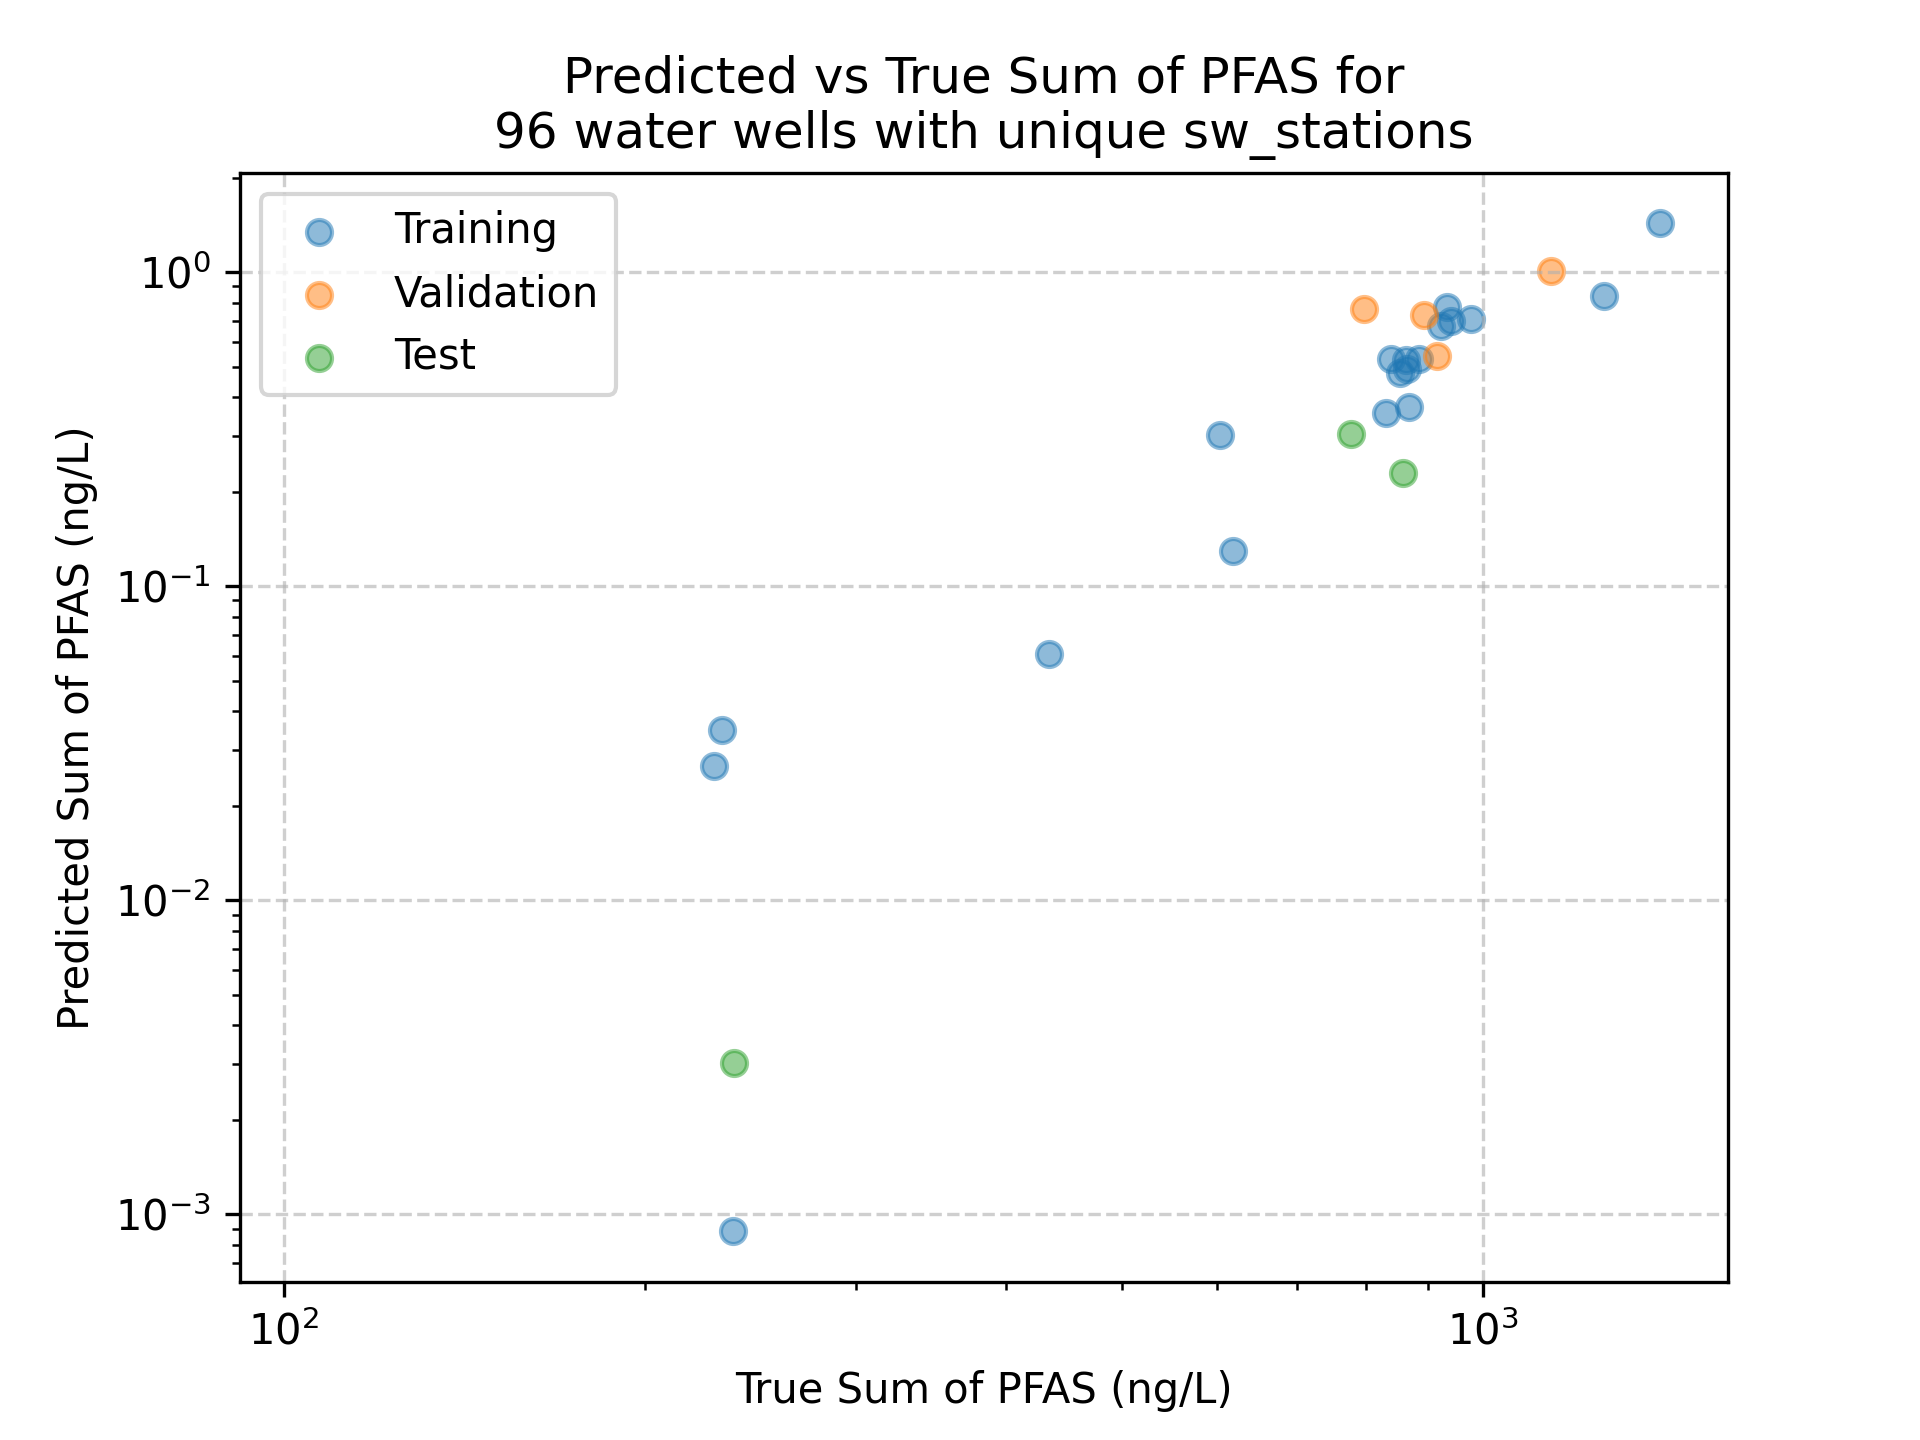
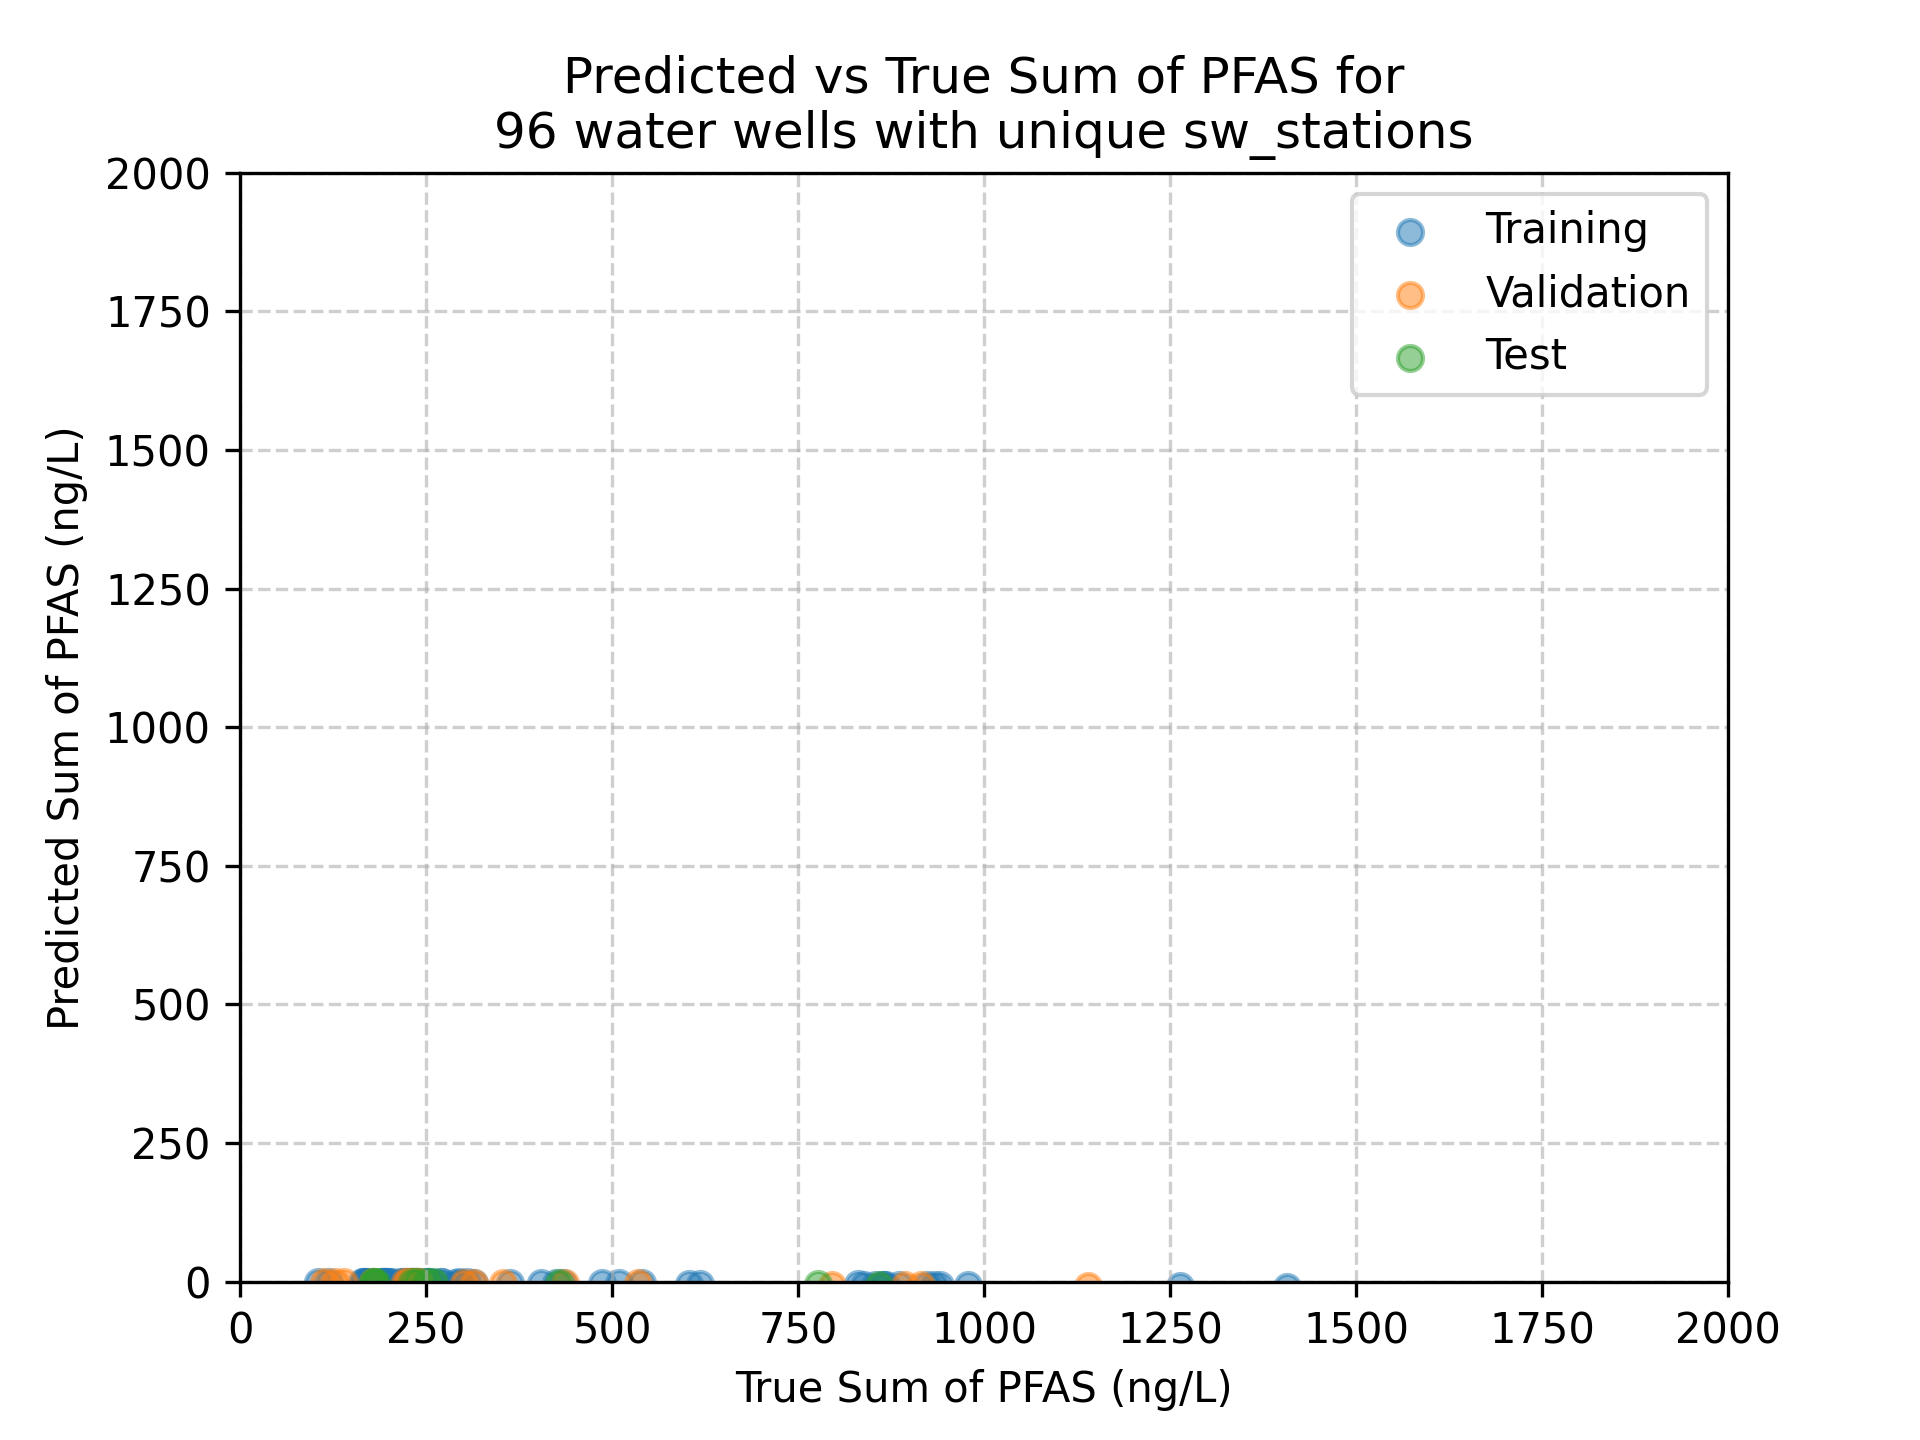
Finilization

diff --git a/GNN_gw_pfas.py b/GNN_gw_pfas.py
@@ -10,7 +10,6 @@ import uuid
 from libs.plot_funs import plot_loss_curve, plot_predictions
 from libs.GNN_models import get_model_by_name
 from torch.optim.lr_scheduler import ReduceLROnPlateau
-#from libs.hetero_data_creation import MainGNNModel
 from libs.utils import cleanup_models, remove_torch_geometry_garbage, remove_predictions, logging_fitting_results, get_features_string, setup_logging, save_predictions
 from libs.load_data import load_dataset
 import torch
@@ -63,7 +62,7 @@ def single_experiment_execution():
         'SeparateLinearModel',
         'GatedEdgePReLUGNN',
         'GatedEdgeEmbeddingPReLUGNN',
-    ][2]
+    ][4]
 
     aggregation = 'mean'
     all_combinations = [(out_channels_options, epochs_options, lr_options, weight_decay_options, distance_options, gw_gw_distance_threshold, gw_features_options, gnn_model, aggregation)]
@@ -174,7 +173,7 @@ def train(model, data, optimizer, criterion, scheduler, device, logger, epochs=1
         sw_loss = criterion(out['sw_stations'][data['sw_stations'].train_mask], sw_train_target)
         
         
-        loss = gw_loss  # + 0.0001 * sw_loss 
+        loss = gw_loss   #+ 1 * sw_loss 
 
         loss.backward()
 
@@ -190,7 +189,7 @@ def train(model, data, optimizer, criterion, scheduler, device, logger, epochs=1
             gw_val_loss = criterion(out['gw_wells'][data['gw_wells'].val_mask], gw_val_target)
             sw_val_loss = criterion(out['sw_stations'][data['sw_stations'].val_mask], sw_val_target)
 
-            val_loss = gw_val_loss  # + 0.0001 * sw_val_loss
+            val_loss = gw_val_loss  # + 1 * sw_val_loss
             val_losses.append(val_loss.item())
 
         model.train()
@@ -258,9 +257,6 @@ def evaluate(pfas_gw, model, data, criterion, device, serial_number, train_targe
     return train_loss, val_loss, test_loss
 
 
-
-
-
 def train_and_evaluate(device, data, pfas_gw,pfas_sw, in_channels_dict, edge_attr_dict, logger, out_channels, epochs, lr, weight_decay, args):
     ### assert both gw_wells and pfas_sites are in the in_channels_dict
     assert 'gw_wells' in in_channels_dict.keys(), "gw_wells is missing in in_channels_dict"
@@ -314,6 +310,12 @@ def generate_data_train_and_evaluate(out_channels, epochs, lr, weight_decay, dis
         print(f"#################### {data} ####################")
         print("=========================================")
     time.sleep(1)
+
+    ### print first column of pfas_sites node features
+    print(f"First column of pfas_sites node features: {data['pfas_sites'].x[:, 0]}")
+    ## now print unique values of pfas_sites node features
+    print(f"Unique values of pfas_sites node features: {torch.unique(data['pfas_sites'].x[:, 0])}")
+    #time.sleep(100)
     
     def single_iteration(device, data, pfas_gw, pfas_sw, in_channels_dict, edge_attr_dict, logger, out_channels, epochs, lr, weight_decay, args):
         return train_and_evaluate(device, data, pfas_gw, pfas_sw, in_channels_dict, edge_attr_dict, logger, out_channels=out_channels, epochs=epochs, lr=lr, weight_decay=weight_decay, args=args)
@@ -395,14 +397,17 @@ def experiment(out_channels, epochs, lr, weight_decay, distance_options,gw_gw_di
         "plot": single_none_parallel_run,
         "data_dir": "/data/MyDataBase/HuronRiverPFAS/",
         "pfas_gw_columns": ['sum_PFAS'],
-        "pfas_sites_columns": ['Industry'],
+        "pfas_sites_columns": ['inv_status'],
         "pfas_sw_station_columns": ['sum_PFAS'],
         "gw_features": gw_features,
         "distance_threshold": distance_options,
         'gnn_model': gnn_model,
         'aggregation': aggregation, 
         "gw_gw_distance_threshold": gw_gw_distance_threshold,
+
     }
+
+
 
     best_losse = generate_data_train_and_evaluate(out_channels, epochs, lr, weight_decay, distance_options, args, logger, single_none_parallel_run, process_index, device)
     #print(f"Best losses: {best_losse}")

diff --git a/utils/uncertainty_analysis.py b/utils/uncertainty_analysis.py
@@ -1,17 +1,12 @@
-from libs.load_data import load_pfas_gw, load_pfas_sites, load_dataset
+from libs.load_data import load_pfas_gw, load_dataset
 from libs.utils import setup_logging
 import os 
-import pandas as pd
-import geopandas as gpd
 import matplotlib.pyplot as plt
 from sklearn.cluster import KMeans
 from matplotlib.patches import Patch
 import pandas as pd
-import numpy as np
-import matplotlib.pyplot as plt
-from sklearn.cluster import KMeans
 from sklearn.mixture import GaussianMixture
-from matplotlib.patches import Patch
+
 
 
 
@@ -85,7 +80,6 @@ def plot_uncertainty_mean_vs_observed_PFAS(path, logger):
 
 
 
-
 def classify_uncertainty(pfas_uncertainty, logger):
     """
     Using k-means to classify the uncertainty into classes based on the elbow method, using the following features:
@@ -96,7 +90,7 @@ def classify_uncertainty(pfas_uncertainty, logger):
     """
 
     # Extract features for clustering
-    X = pfas_uncertainty[['pred_sum_PFAS_mean', 'pred_sum_PFAS_std', 'pred_sum_PFAS_5th', 'pred_sum_PFAS_95th']].values
+    X = pfas_uncertainty[['pred_sum_PFAS_mean', 'pred_sum_PFAS_std']].values
 
     # Determine the optimal number of clusters using the elbow method
     wcss = []
@@ -115,7 +109,7 @@ def classify_uncertainty(pfas_uncertainty, logger):
     plt.show()
 
     # Choose the optimal number of clusters (based on visual inspection of the elbow plot)
-    optimal_clusters = 3  # Set this based on where the "elbow" occurs
+    optimal_clusters = 5  # Set this based on where the "elbow" occurs
 
     # Perform K-Means clustering with the optimal number of clusters
     kmeans = KMeans(n_clusters=optimal_clusters, random_state=0).fit(X)
@@ -129,16 +123,20 @@ def classify_uncertainty(pfas_uncertainty, logger):
     # Log the unique probabilities
     logger.info(f"Unique probabilities for each class: {unique_probabilities}")
 
-    # Assign colors to clusters
-    cluster_colors = {i: plt.cm.tab10(i) for i in range(optimal_clusters)}
+    # Assign colors to clusters using the spectral colormap
+    cmap = plt.cm.get_cmap('viridis', optimal_clusters)
+    cluster_colors = {i: cmap(i) for i in range(optimal_clusters)}
 
-    # Calculate the range of sum_PFAS for each cluster
+    # Calculate the range of sum_PFAS for each cluster and sort by range
     cluster_ranges = {}
     for i in range(optimal_clusters):
         cluster_data = pfas_uncertainty[pfas_uncertainty['uncertainty_class'] == i]
         min_val = int(cluster_data['pred_sum_PFAS_mean'].min())
         max_val = int(cluster_data['pred_sum_PFAS_mean'].max())
-        cluster_ranges[i] = f"{min_val}-{max_val}"
+        cluster_ranges[i] = (min_val, max_val)
+
+    # Sort clusters by the range
+    sorted_clusters = sorted(cluster_ranges.items(), key=lambda x: x[1])
 
     # Update color labels with sum_PFAS range
     pfas_uncertainty['color'] = pfas_uncertainty['uncertainty_class'].map(cluster_colors)
@@ -147,10 +145,12 @@ def classify_uncertainty(pfas_uncertainty, logger):
     fig, ax = plt.subplots(figsize=(8, 8))
     bounds = pd.read_pickle("/data/MyDataBase/HuronRiverPFAS/Huron_River_basin_bound.pkl").to_crs("EPSG:4326")
     bounds.plot(facecolor='none', edgecolor='black', linewidth=1, alpha=0.5, ax=ax)
+    ## sort by color
+    pfas_uncertainty = pfas_uncertainty.sort_values(by='color')
     pfas_uncertainty.to_crs("EPSG:4326").plot(ax=ax, color=pfas_uncertainty['color'], alpha=0.5)
 
     # Create a legend with custom patches
-    legend_patches = [Patch(color=color, label=f'Range: {cluster_ranges[i]}') for i, color in cluster_colors.items()]
+    legend_patches = [Patch(color=cluster_colors[i], label=f'Σ(PFAS) [{r[0]}-{r[1]}]') for i, r in sorted_clusters]
     ax.legend(handles=legend_patches, title="Uncertainty Clusters")
     plt.grid(axis='both', linestyle='--', alpha=0.5)
     plt.xlabel('Longitude')

diff --git a/libs/load_data.py b/libs/load_data.py
@@ -163,6 +163,8 @@ def add_unconfirmed_sites(data_dir, logger):
         crs='EPSG:4326'
     ).to_crs("EPSG:26990").reset_index(drop=True)
 
+
+
     unconfirmed_pfas_sites['inv_status'] = 0
 
     logger.info(f"stage:add_unconfirmed_sites ==##== Number of unconfirmed sites: {len(unconfirmed_pfas_sites)}")
@@ -204,10 +206,6 @@ def load_pfas_sites(data_dir, logger, load_biosolid=False):
     logger.info("stage:load_pfas_sites ==##== PFAS sites are all loaded")
 
     return combined_pfas_sites
-
-
-
-
 
 def classify_pfas_gw(pfas_gw, logger):
     ### assert no negative in pfas_gw sum_PFAS
@@ -312,12 +310,10 @@ def load_pfas_sw(data_dir,gw_features, logger):
 
 
 
-    try:
-        pfas_sw = pfas_sw.drop_duplicates(subset=['SiteCode'])[['SiteCode','geometry']+gw_features].merge(
-            pfas_sw_no_geometry, on='SiteCode', how='inner'
-        )
-    except Exception as e:
-        logger.error(e)
+    pfas_sw = pfas_sw.drop_duplicates(subset=['SiteCode'])[['SiteCode','geometry']+gw_features].merge(
+        pfas_sw_no_geometry, on='SiteCode', how='inner'
+    )
+
 
     assert all(
         col in pfas_sw.columns for col in gw_features
@@ -365,17 +361,20 @@ def load_dataset(args, device, logger):
         plot_site_samples(train_sw, val_sw, test_sw, pfas_sites, logger, name="sw")
 
     var_names = get_features_string(gw_features)
-    if not os.path.exists(f"Hetero_data/{var_names}_{distance_threshold}_{gw_gw_distance_threshold}.pth"):
+    REWRITE = True
+    if REWRITE:
+        data = create_hetdata(pfas_gw, pfas_sw, unsampled_gw, pfas_sites, device, pfas_gw_columns, pfas_sites_columns, pfas_sw_station_columns, gw_features, distance_threshold, logger, gw_gw_distance_threshold)
+        torch.save(data, f"Hetero_data/{var_names}_{distance_threshold}_{gw_gw_distance_threshold}.pth")
+    elif not os.path.exists(f"Hetero_data/{var_names}_{distance_threshold}_{gw_gw_distance_threshold}.pth"):
         data = create_hetdata(pfas_gw, pfas_sw, unsampled_gw, pfas_sites, device, pfas_gw_columns, pfas_sites_columns, pfas_sw_station_columns, gw_features, distance_threshold, logger, gw_gw_distance_threshold)
         torch.save(data, f"Hetero_data/{var_names}_{distance_threshold}_{gw_gw_distance_threshold}.pth")
     else:
         data = torch.load(f"Hetero_data/{var_names}_{distance_threshold}_{gw_gw_distance_threshold}.pth")
-
     data = data.to(device)  
-    
+
     data = split_data(data, unsampled_gw, train_gw, val_gw, test_gw, "gw_wells", logger).to(device)
     data = split_data(data, None, train_sw, val_sw, test_sw, "sw_stations", logger).to(device)
-    
+
     ## assert geometry is in pfas_gw
     assert 'geometry' in pfas_gw.columns, "geometry column is missing in pfas_gw"
 
@@ -409,8 +408,6 @@ def split_data(data,unsampled_gw,  train, val, test, node_name, logger):
     data[node_name].train_mask = train_mask
     data[node_name].val_mask = val_mask
     data[node_name].test_mask = test_mask
-
-
 
     logger.info(f"stage:split_data ==##== Number of training samples: {train_mask.sum()} (NONE ZERO: {train['sum_PFAS'].gt(0).sum()})")
     logger.info(f"stage:split_data ==##== Number of validation samples: {val_mask.sum()} (NONE ZERO: {val['sum_PFAS'].gt(0).sum()})")

diff --git a/libs/hetero_data_creation.py b/libs/hetero_data_creation.py
@@ -92,6 +92,8 @@ def create_hetdata(pfas_gw, pfas_sw, unsampled_gw, pfas_sites, device, pfas_gw_c
     data['gw_wells'].x = torch.tensor(pfas_gw[pfas_gw_columns + gw_features].values, dtype=torch.float)
     data['pfas_sites'].x = torch.tensor(pfas_sites[pfas_sites_columns + gw_features].values, dtype=torch.float)
 
+    
+
     pfas_gw = pfas_gw.drop_duplicates(subset='WSSN')  ### NOTE: need to be verified later
     #pfas_sw = pfas_sw.drop_duplicates(subset='SiteCode')  ### NOTE: need to be verified later
 
@@ -109,6 +111,7 @@ def create_hetdata(pfas_gw, pfas_sw, unsampled_gw, pfas_sites, device, pfas_gw_c
 
 
     return data
+
 
 
 def create_node_edge_main(data, pfas_gw, pfas_sw, pfas_sites, device, distance_threshold, logger, gw_gw_distance_threshold):
@@ -220,3 +223,27 @@ def add_self_loops(data, device):
     data['sw_stations', 'self_loop', 'sw_stations'].edge_index = sw_stations_self_loops
 
     return data
+
+
+def create_rivers_nodes_edges():
+    import geopandas as gpd 
+    import pandas as pd
+    path = "/data/MyDataBase/CIWRE-BAE/SWAT_input/huc8/4100013/SWAT_MODEL/Watershed/Shapes/rivs1.shp"
+    sw = gpd.read_file(path)    ##LINKNO, DSLINKNO
+    sw['riv_node_index'] = pd.factorize(sw['LINKNO'])[0]
+    ### define edges by LINKNO and DSLINKNO relationship 
+    
+
+    sw_edges = sw[['LINKNO', 'DSLINKNO']].values
+    sw_edges = np.unique(sw_edges, axis=0)
+    sw_edge_index = torch.tensor(sw_edges.T, dtype=torch.long)
+    ### define edge_attr using relevant columns
+    sw_edge_attr = torch.tensor(sw[['LENGTHKM', 'SLOPE', 'MANNING']].values, dtype=torch.float)
+    
+    
+    print(sw.columns)  
+
+if __name__ == "__main__":
+    create_rivers_nodes_edges()
+    
+    print("End of the script")

diff --git a/libs/plot_confirmed_suspected_pfas.py b/libs/plot_confirmed_suspected_pfas.py
@@ -1,0 +1,27 @@
+import geopandas as gpd
+from libs.load_data import load_pfas_sites
+from libs.utils import setup_logging
+import matplotlib.pyplot as plt
+import os
+import pandas as pd
+data_dir =[ '/data/MyDataBase/HuronRiverPFAS/']
+logger = setup_logging()
+pfas_sites = load_pfas_sites(data_dir = "/data/MyDataBase/HuronRiverPFAS/", logger = logger)
+pfas_sites =pfas_sites.to_crs("EPSG:4326")
+bounds = gpd.read_file("/data/MyDataBase/HuronRiverPFAS/Huron_River_basin_bound.geojson")
+bounds = bounds.to_crs("EPSG:4326")
+## red for inv_status = 1, green for inv_status = 0
+pfas_sites_inv_status_1 = pfas_sites[pfas_sites['inv_status'] == 1]
+pfas_sites_inv_status_0 = pfas_sites[pfas_sites['inv_status'] == 0]
+fig, ax = plt.subplots()
+plt.grid(alpha=0.5, linestyle='--')
+bounds.plot(ax=ax, facecolor='none', edgecolor='black')
+
+pfas_sites_inv_status_0.plot(ax=ax, color='blue', markersize=5)
+pfas_sites_inv_status_1.plot(ax=ax, color='red', markersize=8)
+plt.xlabel('Longitude')
+plt.ylabel('Latitude')
+plt.title('PFAS sites')
+plt.legend(['Confirmed PFAS site', 'Suspected PFAS site'])
+plt.tight_layout()    
+plt.savefig('figs/confirmed_suspected_pfas.png', dpi=300)

diff --git a/utils/top_ten_models.py b/utils/top_ten_models.py
@@ -1,0 +1,16 @@
+import pandas as pd
+
+path = 'figs_archive/results/GridSearchResults.csv'
+
+df = pd.read_csv(path)
+
+# Group by 'gnn_model' and get the indices of the top 10 models based on 'test_loss'
+grouped = df.groupby('gnn_model').apply(lambda x: x.nsmallest(10, 'test_loss')).reset_index(drop=True)
+## save
+grouped.drop(columns=["sw_train_loss","sw_val_loss","sw_test_loss"]).round(5).to_csv('figs_archive/results/TopTenModels.csv', index=False)
+# Print the relevant columns, including test_loss and other columns
+print(grouped)
+## now select the best model base don the lowest test_loss and then lowest val_loss
+best_model = grouped.nsmallest(1, 'test_loss').nsmallest(1, 'val_loss')
+## save the best model
+best_model.drop(columns=["sw_train_loss","sw_val_loss","sw_test_loss"]).round(2).to_csv('figs_archive/results/BestModel.csv', index=False)

diff --git a/libs/plot_funs.py b/libs/plot_funs.py
@@ -387,8 +387,15 @@ def plot_predictions(train_target, train_pred, val_target, val_pred, test_target
     plt.ylabel('Predicted Sum of PFAS (ng/L)')
     plt.legend()
     plt.grid(axis='both', linestyle='--', alpha=0.6)
-    plt.yscale('log')
-    plt.xscale('log')
+    if node_name == 'gw_wells':
+        plt.xscale('log')
+        plt.yscale('log')
+        plt.xlim(0.01, 1000)
+        plt.ylim(0.01, 1000)
+    else:
+        plt.xlim(0, 2000)
+        plt.ylim(0, 2000)
+
 
     plt.savefig(f'figs/{node_name}_predictions.png', dpi=300)
     plt.close()

diff --git a/utils/HeteroData_view.py b/utils/HeteroData_view.py
@@ -55,4 +55,4 @@ pd.set_option('display.max_colwidth', None)  # To ensure that all content in col
 print(df)
 
 # Optionally save to a CSV file
-df.drop(columns=['File']).to_csv('HeteroData_info.csv', index=False)
+df.drop(columns=['File']).to_csv('results/HeteroData_info.csv', index=False)

diff --git a/utils/huron_river_sw_nodes.py b/utils/huron_river_sw_nodes.py
@@ -1,0 +1,6 @@
+import pandas as pd 
+import geopandas as gpd
+import matplotlib.pyplot as plt
+
+
+ 
